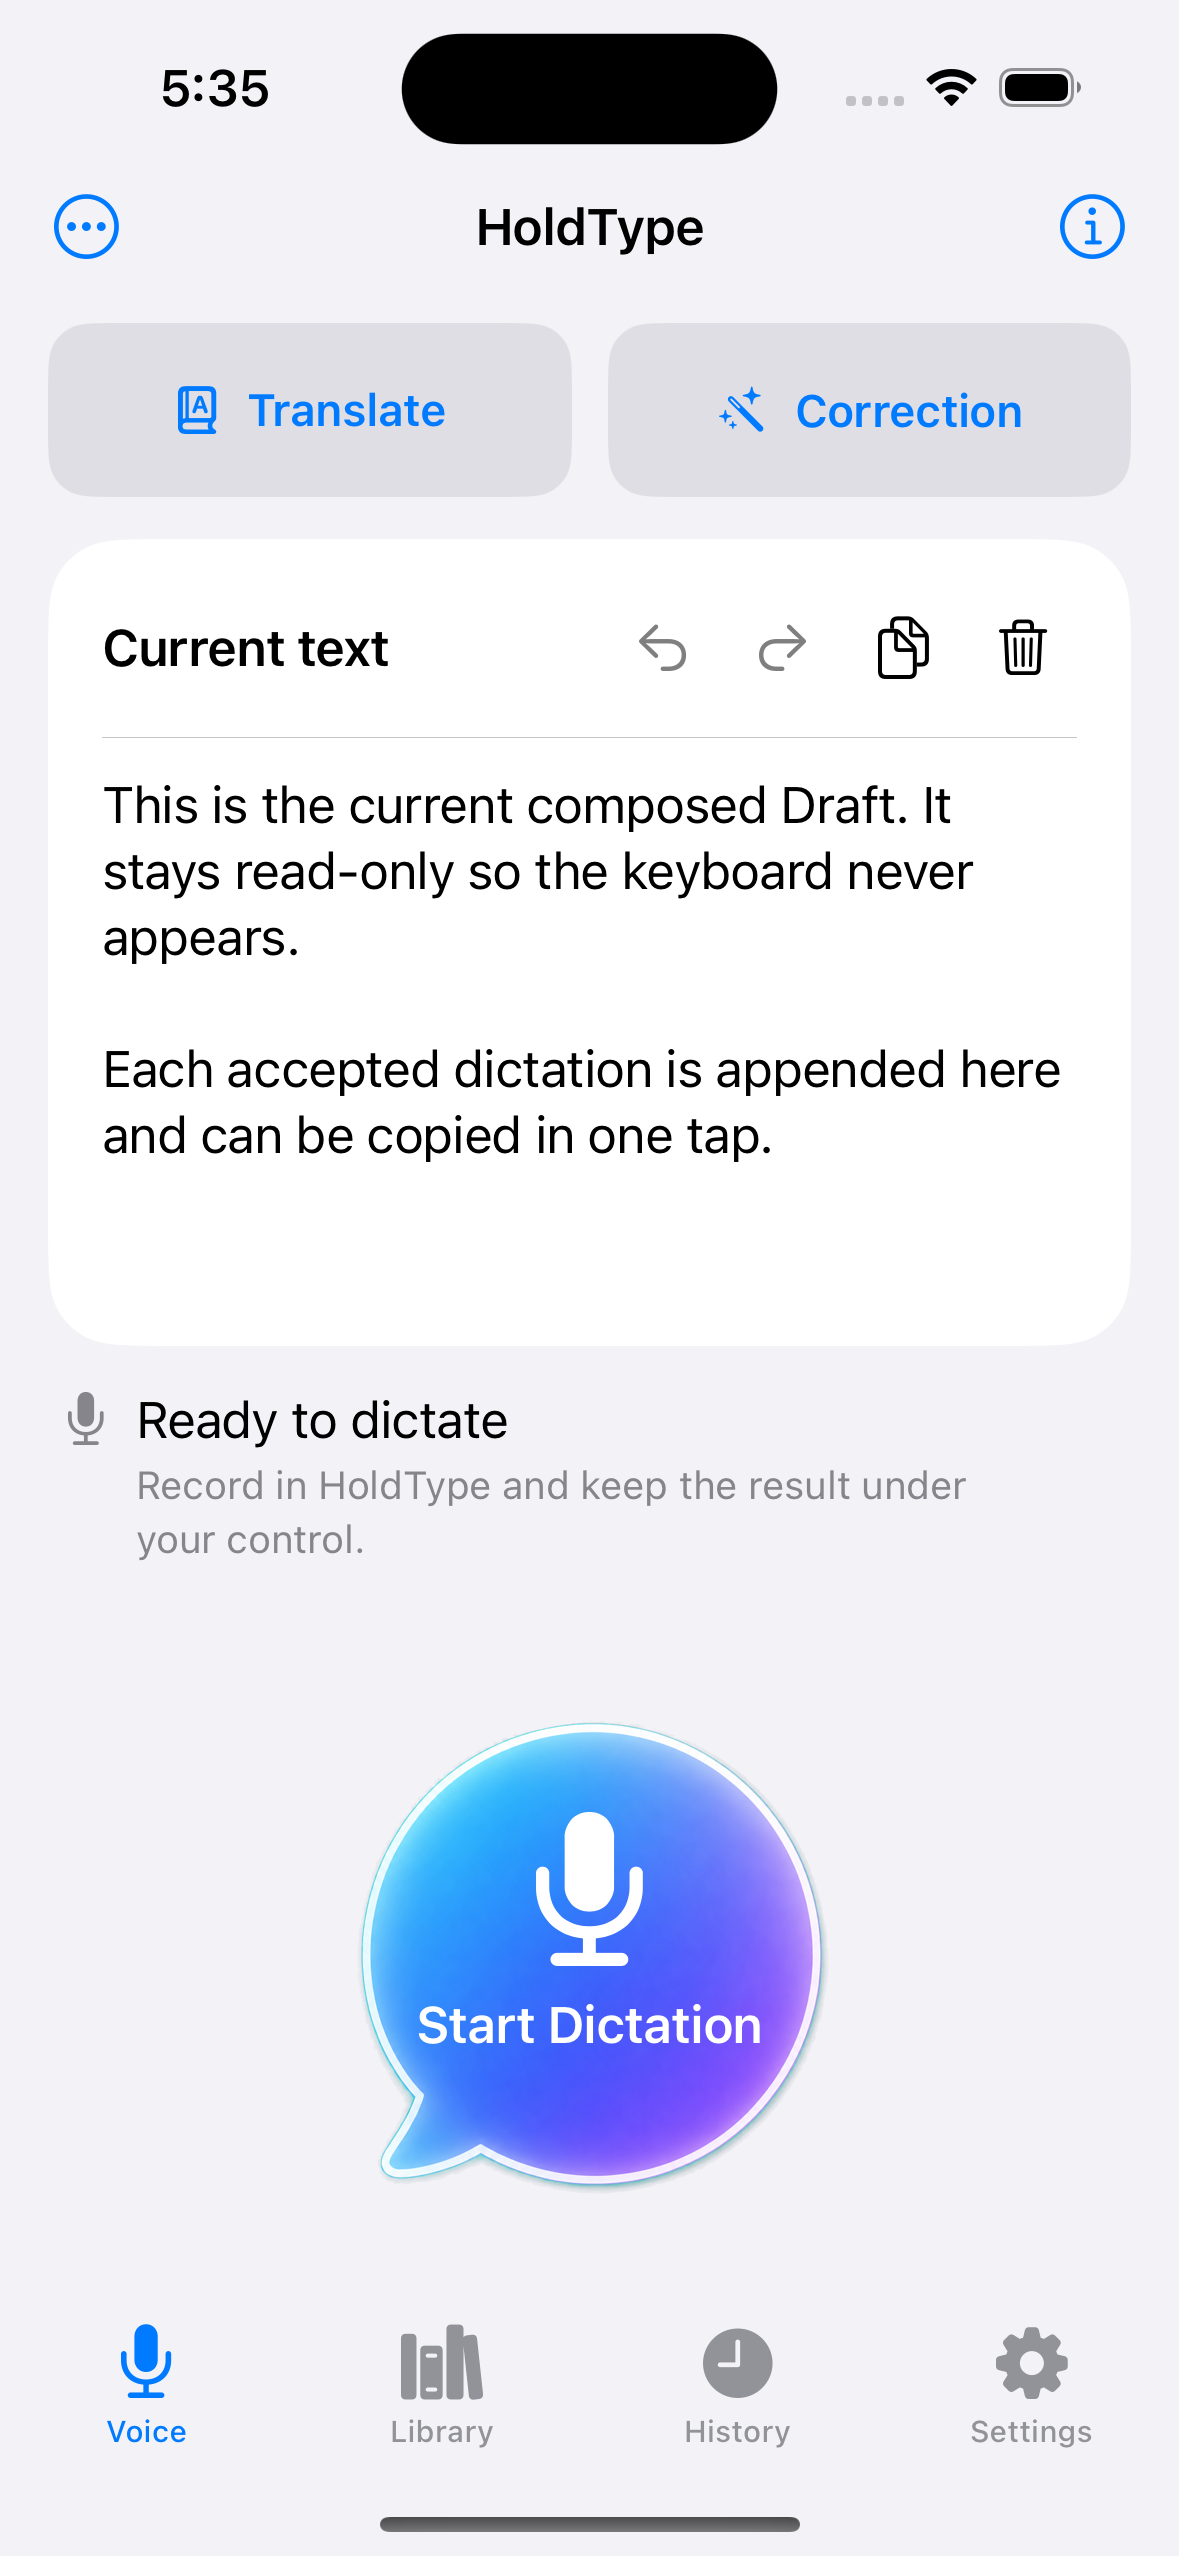
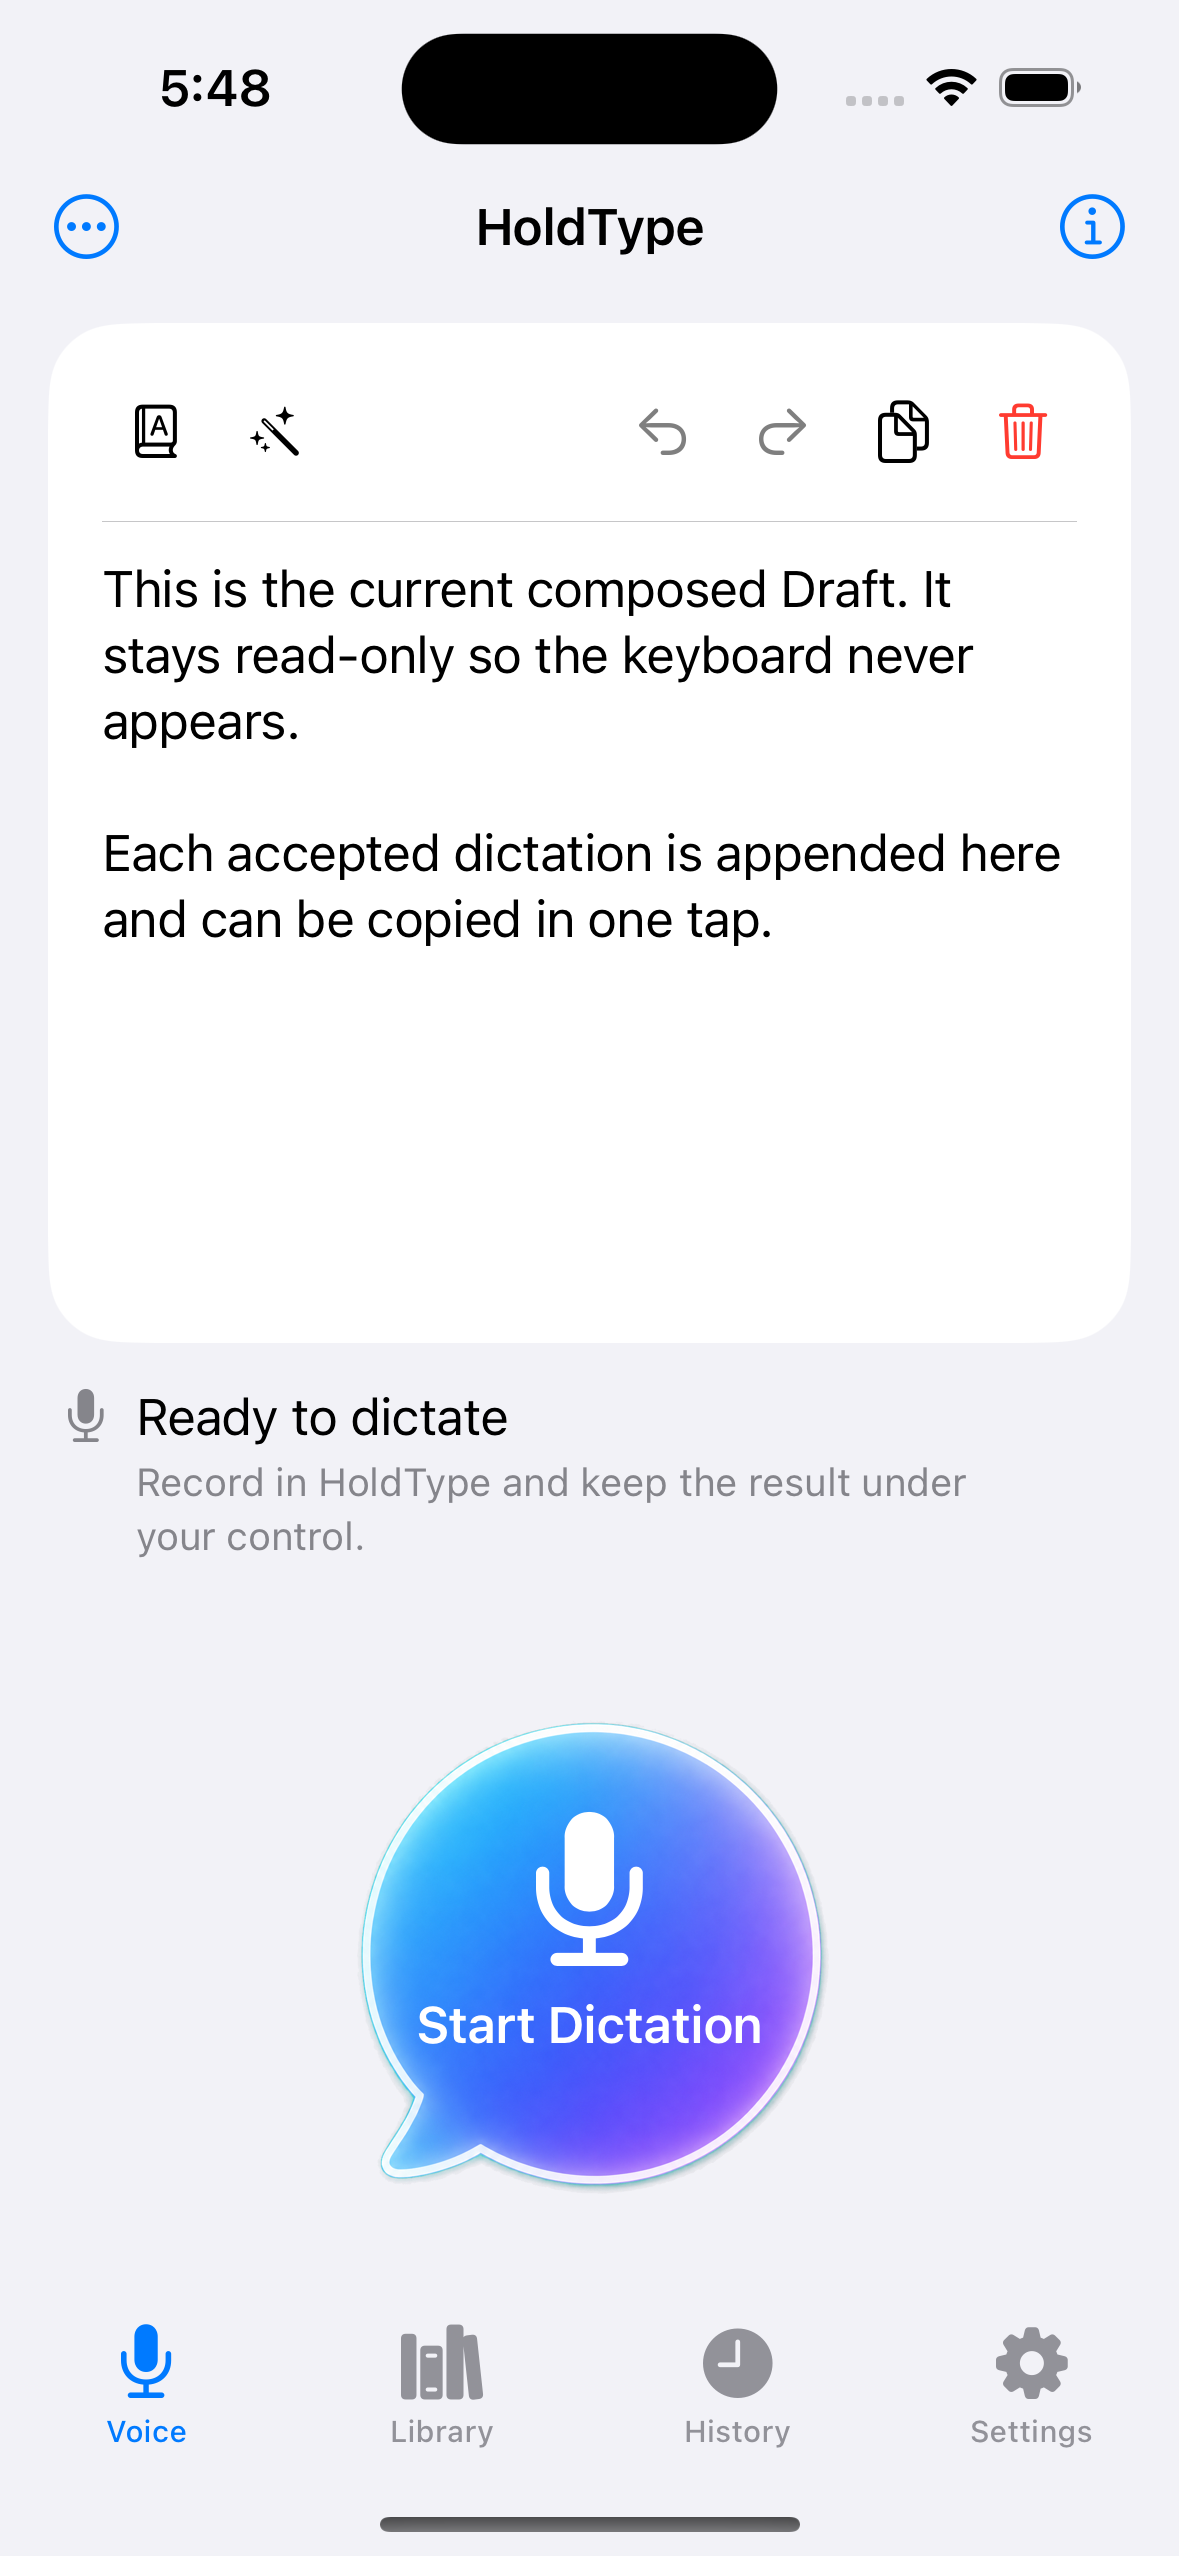
fix(ios): compact voice draft actions

diff --git a/HoldTypeIOS/IOSVoiceHomeView.swift b/HoldTypeIOS/IOSVoiceHomeView.swift
@@ -37,7 +37,6 @@ struct IOSVoiceHomeView: View {
         GeometryReader { geometry in
             ScrollView {
                 VStack(spacing: 14) {
-                    oneShotVoiceActions
                     draftSurface
                         .frame(minHeight: 250, maxHeight: 340)
                     voiceStatusSurface
@@ -259,21 +258,7 @@ struct IOSVoiceHomeView: View {
         }
     }
 
-    private var oneShotVoiceActions: some View {
-        ViewThatFits(in: .horizontal) {
-            HStack(spacing: 12) {
-                oneShotVoiceButton(.startTranslation)
-                oneShotVoiceButton(.startCorrection)
-            }
-            VStack(spacing: 8) {
-                oneShotVoiceButton(.startTranslation)
-                oneShotVoiceButton(.startCorrection)
-            }
-        }
-        .accessibilityIdentifier("ios.voice.one-shot-actions")
-    }
-
-    private func oneShotVoiceButton(
+    private func oneShotVoiceIconButton(
         _ action: IOSForegroundVoiceAction
     ) -> some View {
         let presentation = IOSVoiceActionPresentation.resolve(action)
@@ -286,28 +271,24 @@ struct IOSVoiceHomeView: View {
             guard let command, isEnabled else { return }
             performVoiceCommand(command)
         } label: {
-            Label(
-                presentation.title,
-                systemImage: presentation.systemImage
-            )
-            .font(.subheadline.weight(.semibold))
-            .frame(maxWidth: .infinity, minHeight: 28)
+            Image(systemName: presentation.systemImage)
+                .frame(width: 36, height: 36)
         }
-        .buttonStyle(.bordered)
-        .buttonBorderShape(.roundedRectangle(radius: 14))
-        .controlSize(.large)
+        .buttonStyle(.plain)
         .disabled(!isEnabled)
+        .accessibilityLabel(presentation.title)
         .accessibilityIdentifier(presentation.accessibilityIdentifier)
     }
 
     private var draftSurface: some View {
         VStack(alignment: .leading, spacing: 12) {
-            HStack(alignment: .center) {
-                Text("Current text")
-                    .font(.headline)
+            HStack(alignment: .center, spacing: 4) {
+                oneShotVoiceIconButton(.startTranslation)
+                oneShotVoiceIconButton(.startCorrection)
                 Spacer(minLength: 12)
                 draftActionButtons
             }
+            .accessibilityIdentifier("ios.voice.draft-actions")
 
             Divider()
 
@@ -415,6 +396,7 @@ struct IOSVoiceHomeView: View {
             } label: {
                 Image(systemName: "trash")
                     .frame(width: 36, height: 36)
+                    .foregroundStyle(.red)
             }
             .disabled(draftOwner.text.isEmpty || draftOwner.isBusy)
             .accessibilityLabel("Clear Draft")

diff --git a/docs/qa/runs/ios-voice-actions-2026-07-14.md b/docs/qa/runs/ios-voice-actions-2026-07-14.md
@@ -2,13 +2,13 @@
 
 ## Scope
 
-Qualify the visible Translate and Correction actions added above the Voice
-Draft. This is Simulator evidence for containing-app layout and deterministic
+Qualify the compact Translate and Correction actions in the Voice Draft action
+row. This is Simulator evidence for containing-app layout and deterministic
 workflow routing only; it is not physical microphone or live-provider proof.
 
 ## Environment
 
-- Commit under test: working tree after `77b8b7a`.
+- Commit under test: working tree after `4152dfa`.
 - Destination: iPhone 16 Simulator, iOS 18.6, 393 × 852 points at 3×.
 - Launch: `HOLDTYPE_AUTOMATION=1`, non-interactive Keychain policy, deterministic
   Voice qualification routes, no live provider.
@@ -21,13 +21,18 @@ workflow routing only; it is not physical microphone or live-provider proof.
 
 ## Results
 
-- Translate and Correction are visible above Current text with equal geometry,
-  native labels, and the same book and wand symbols used by the keyboard.
+- Translate and Correction are compact icon-only actions at the leading edge of
+  the Draft action row, using the same book and wand symbols as the keyboard.
+  A flexible gap separates them from Undo, Redo, Copy, and Clear. The redundant
+  Current text label is absent, while the icons retain accessibility labels.
+- Clear remains a destructive trailing action. Its owner-level regression test
+  proves that Clear empties the Draft and that Undo and Redo restore the exact
+  session-local states.
 - Ready state keeps both actions, the complete Draft, status, large Start
   Dictation control, and all first-level tabs visible without clipping.
 - Setup-blocked state keeps both one-shot actions visible but disabled, keeps
-  the Draft copyable, exposes the owning OpenAI Settings recovery action, and
-  greys the primary Start Dictation control.
+  the Draft copyable and clearable, exposes the owning OpenAI Settings recovery
+  action, and greys the primary Start Dictation control.
 - Controller and workflow tests prove that Correction starts standard output
   with forced correction for that request, while Translate retains its current
   valid-route gate.

diff --git a/docs/specs/features/ios-v1-release.md b/docs/specs/features/ios-v1-release.md
@@ -146,11 +146,12 @@ destination. History remains a separate tab and is not previewed on Voice.
   provider request.
 - Only one recording or provider chain may be active or pending.
 - Provider stages have explicit timeouts and real cancellation.
-- Standard dictation is always the primary action. Visible Translate and
-  Correction actions above the Voice Draft are one-shot starts, never modes:
-  Translate is available only when its current route is valid, while
-  Correction forces the saved correction configuration for that request only.
-  Neither action changes Settings or transforms the existing Draft.
+- Standard dictation is always the primary action. Compact icon-only Translate
+  and Correction actions at the leading edge of the Voice Draft action row are
+  one-shot starts, never modes. A flexible gap separates them from Undo, Redo,
+  Copy, and Clear. Translate is available only when its current route is valid,
+  while Correction forces the saved correction configuration for that request
+  only. Neither action changes Settings or transforms the existing Draft.
 - Current Dictionary, Voice Emoji Commands, Replacement Rules, cleanup,
   correction, and translation apply in their documented order.
 - A successful result becomes Latest Result even if compact History append

diff --git a/docs/specs/features/ios-voice-draft.md b/docs/specs/features/ios-voice-draft.md
@@ -16,7 +16,8 @@ without opening the custom keyboard.
   alive.
 - History remains a separate containing-app tab. Voice contains no History
   list or preview and adds no duplicate History toolbar action.
-- Translate and Correction are visible one-shot actions above the Draft.
+- Translate and Correction are visible one-shot actions in the Draft action
+  row.
   Keyboard Dictation Session and the practice field remain reachable from the
   compact Voice More menu; the keyboard tools are presented as a sheet and
   none of them occupies the primary Voice canvas.
@@ -60,8 +61,12 @@ without opening the custom keyboard.
 
 ## One-Shot Processing Actions
 
-- Translate and Correction are secondary buttons above the Draft, with native
-  symbols and labels. They remain visible but unavailable unless the shared
+- Translate and Correction are compact icon-only buttons at the leading edge
+  of the Draft action row. A flexible gap separates them from Undo, Redo,
+  Copy, and Clear at the trailing edge. The row has no visible title because
+  the Draft surface itself already supplies the necessary context. VoiceOver
+  still exposes a text label for each icon.
+- Translate and Correction remain visible but unavailable unless the shared
   Voice controller admits the corresponding Start action.
 - Translate starts one new dictation with the saved Translation route. It is
   enabled only while Voice is ready and the current translation target and